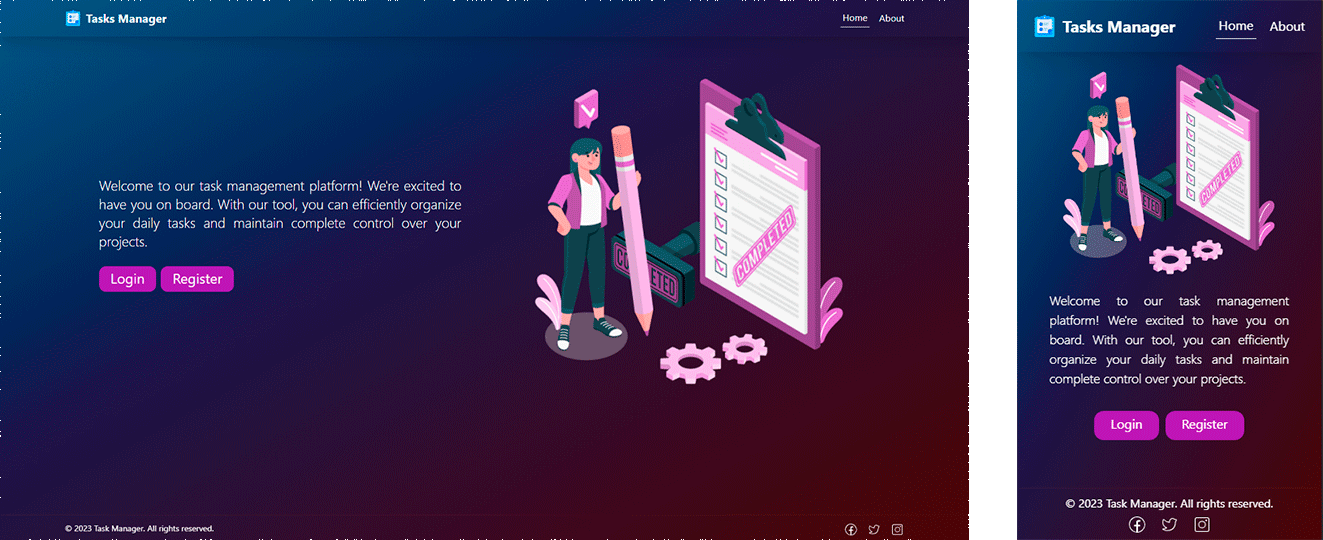
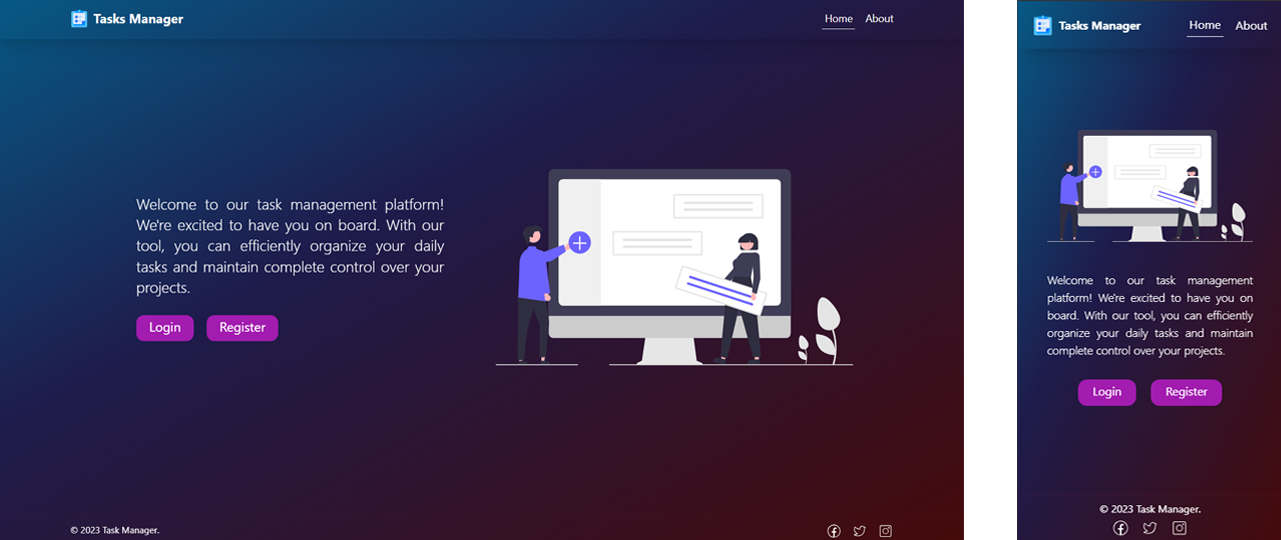
Actualizando Readme

diff --git a/src/pages/HomePage.jsx b/src/pages/HomePage.jsx
@@ -1,5 +1,5 @@
 import "../styles/tailwind.css";
-import tasks from "../assets/tasks.svg";
+import addTasks from "../assets/addTasks.svg";
 import { Link } from "react-router-dom";
 import { useAuth } from "../context/AuthContext";
 
@@ -7,41 +7,46 @@ function HomePage() {
   const { isAuthenticated } = useAuth();
 
   return (
-    <div className="flex flex-col md:flex-col-reverse gap-10 h-[calc(100vh-139px)] items-center justify-center">
-      <div className="flex md:w-1/2 flex-col items-center md:items-start justify-center md:px-10 animate-fade-up animate-once animate-ease-linear">
+    <div className="flex flex-col-reverse md:flex-row gap-10 h-[calc(100vh-139px)] items-center justify-center">
+      <div className="flex md:w-1/2 flex-col items-center md:items-start justify-center md:px-10 animate-fade animate-once animate-ease-linear">
         <p className="text-justify md:text-2xl font-light">
           Welcome to our task management platform! We're excited to have you on
           board. With our tool, you can efficiently organize your daily tasks
           and maintain complete control over your projects.
         </p>
         {isAuthenticated ? (
-          <div className="flex gap-2 justify-center mt-5 w-full">
+          <div className="flex gap-2 justify-center md:justify-start mt-5 w-full">
             <Link
               to="/tasks"
-              className="btn bg-fuchsia-700 md:text-2xl px-5 pb-2 rounded-xl"
+              className="btn bg-fuchsia-700 md:text-xl px-5 pb-2 rounded-xl"
             >
               Tasks
             </Link>
           </div>
         ) : (
-          <div className="flex gap-2 justify-center mt-5 w-full">
+          <div className="flex gap-5 justify-center md:justify-start mt-5 w-full">
             <Link
               to="/login"
-              className="btn bg-fuchsia-700 md:text-2xl px-5 pb-2 rounded-xl"
+              className="btn bg-fuchsia-700 md:text-xl px-5 pb-2 rounded-xl"
             >
               Login
             </Link>
             <Link
               to="/Register"
-              className="btn bg-fuchsia-700 md:text-2xl px-5 pb-2 rounded-xl"
+              className="btn bg-fuchsia-700 md:text-xl px-5 pb-2 rounded-xl"
             >
               Register
             </Link>
           </div>
         )}
       </div>
-      <div className="flex md:w-1/2 justify-center md:items-center animate-fade-down animate-once animate-ease-linear">
-        <img src={tasks} alt="Landing Page" className="md:w-[400px] md:mx-10" />
+      <div className="flex md:w-1/2 justify-center md:items-center animate-fade animate-once animate-ease-linear">
+        {/* <img src={tasks} alt="Landing Page" className="md:w-[400px] md:mx-10" /> */}
+        <img
+          src={addTasks}
+          alt="Landing Page"
+          className="md:w-[620px] md:mx-10"
+        />
       </div>
     </div>
   );

diff --git a/src/pages/AboutPage.jsx b/src/pages/AboutPage.jsx
@@ -4,18 +4,18 @@ import list from "../assets/list.svg";
 function AboutPage() {
   return (
     <div className="flex flex-col items-center justify-center font-light md:pt-3 pb-10 md:px-20">
-      <h1 className="text-3xl text-center font-bold pt-14 md:pt-5 animate-fade-down animate-once animate-ease-linear">
+      <h1 className="text-3xl text-center font-bold pt-14 md:pt-5 animate-fade animate-once animate-ease-linear">
         Welcome to our Task Manager!
       </h1>
       <div className="md:flex justify-center  ">
-        <div className="flex flex-col items-center gap-5 mt-10 md:flex-1 animate-fade-right animate-once animate-ease-linear">
+        <div className="flex flex-col items-center gap-5 mt-10 md:flex-1 animate-fade animate-once animate-ease-linear">
           <img src={list} alt="list" className="h-auto max-h-[310px]" />
           <p className="text-justify mb-2 md:text-2xl sm:text-xl md:px-10">
             Get started today and take control of your tasks with our Task
             Manager. Your path to enhanced productivity begins here!
           </p>
         </div>
-        <div className="flex flex-col items-center gap-5 mt-12 md:flex-1 animate-fade-left animate-once animate-ease-linear">
+        <div className="flex flex-col items-center gap-5 mt-12 md:flex-1 animate-fade animate-once animate-ease-linear">
           <img src={organized} alt="tasks" className="h-auto max-h-[300px]" />
           <p className="text-justify mb-2 md:text-2xl sm:text-xl md:px-10">
             Our Task Manager is a tool designed to help you stay organized and

diff --git a/src/components/Footer.jsx b/src/components/Footer.jsx
@@ -5,13 +5,13 @@ function Footer() {
     <footer className="fixed bottom-0 left-0 w-full flex flex-col md:flex-row items-center md:justify-between text-white p-2 md:px-28 shadow-md shadow-red-500">
       <p className="text-center text-sm">&copy; 2023 Task Manager.</p>
       <div className="flex text-2xl  mt-1 space-x-4">
-        <a href="#">
+        <a href="https://www.facebook.com/" target="Blank">
           <CiFacebook />
         </a>
-        <a href="#">
+        <a href="https://twitter.com/" target="Blank">
           <CiTwitter />
         </a>
-        <a href="#">
+        <a href="https://www.instagram.com/" target="Blank">
           <CiInstagram />
         </a>
       </div>

diff --git a/src/components/Navbar.jsx b/src/components/Navbar.jsx
@@ -92,7 +92,7 @@ function NavBar() {
               <li className="pl-10 block">
                 <button className="flex items-center justify-center gap-2 pt-1 capitalize ">
                   <FaCircleUser className="text-[20px]" />
-                  <h1 className="text-xs w-auto max-w-[60px] truncate md:text-base md:w-[150px] text-left">
+                  <h1 className="text-xs md:w-min max-w-[60px] truncate md:text-base text-left">
                     {cookie.username}
                   </h1>
                   <TfiAngleDown

diff --git a/src/pages/RegisterPage.jsx b/src/pages/RegisterPage.jsx
@@ -11,10 +11,12 @@ function RegisterPage() {
     formState: { errors },
   } = useForm();
   const { signup, isAuthenticated, errors: registerErrors } = useAuth();
-  const navigate = useNavigate();
+  // const navigate = useNavigate();
 
   useEffect(() => {
-    if (isAuthenticated) navigate("/tasks");
+    if (isAuthenticated)
+      // |navigate("/tasks");
+      window.location.replace("/tasks");
   }, [isAuthenticated]);
 
   const onSubmit = handleSubmit(async (values) => {

diff --git a/README.md b/README.md
@@ -1,7 +1,29 @@
+## Comandos
+
+<table>
+  </tr>
+    <td>
+      npm install
+    </td>
+    <td>
+      Instalar dependencias de Node.
+    </td>
+  <tr>
+  <tr>
+    <td>
+    npm run dev
+    </td>
+    <td>
+    Inicia el servidor de desarrollo.
+    </td>
+  </tr>
+</table>
+</br>
+
 # Tecnologías y Herramientas.
 
-![React](https://img.shields.io/badge/react-%2320232a.svg?style=for-the-badge&logo=react&logoColor=%2361DAFB)
 ![Vite](https://img.shields.io/badge/vite-%23646CFF.svg?style=for-the-badge&logo=vite&logoColor=white)
+![React](https://img.shields.io/badge/react-%2320232a.svg?style=for-the-badge&logo=react&logoColor=%2361DAFB)
 ![TailwindCSS](https://img.shields.io/badge/tailwindcss-%2338B2AC.svg?style=for-the-badge&logo=tailwind-css&logoColor=white)
 ![NodeJS](https://img.shields.io/badge/node.js-6DA55F?style=for-the-badge&logo=node.js&logoColor=white)
 
